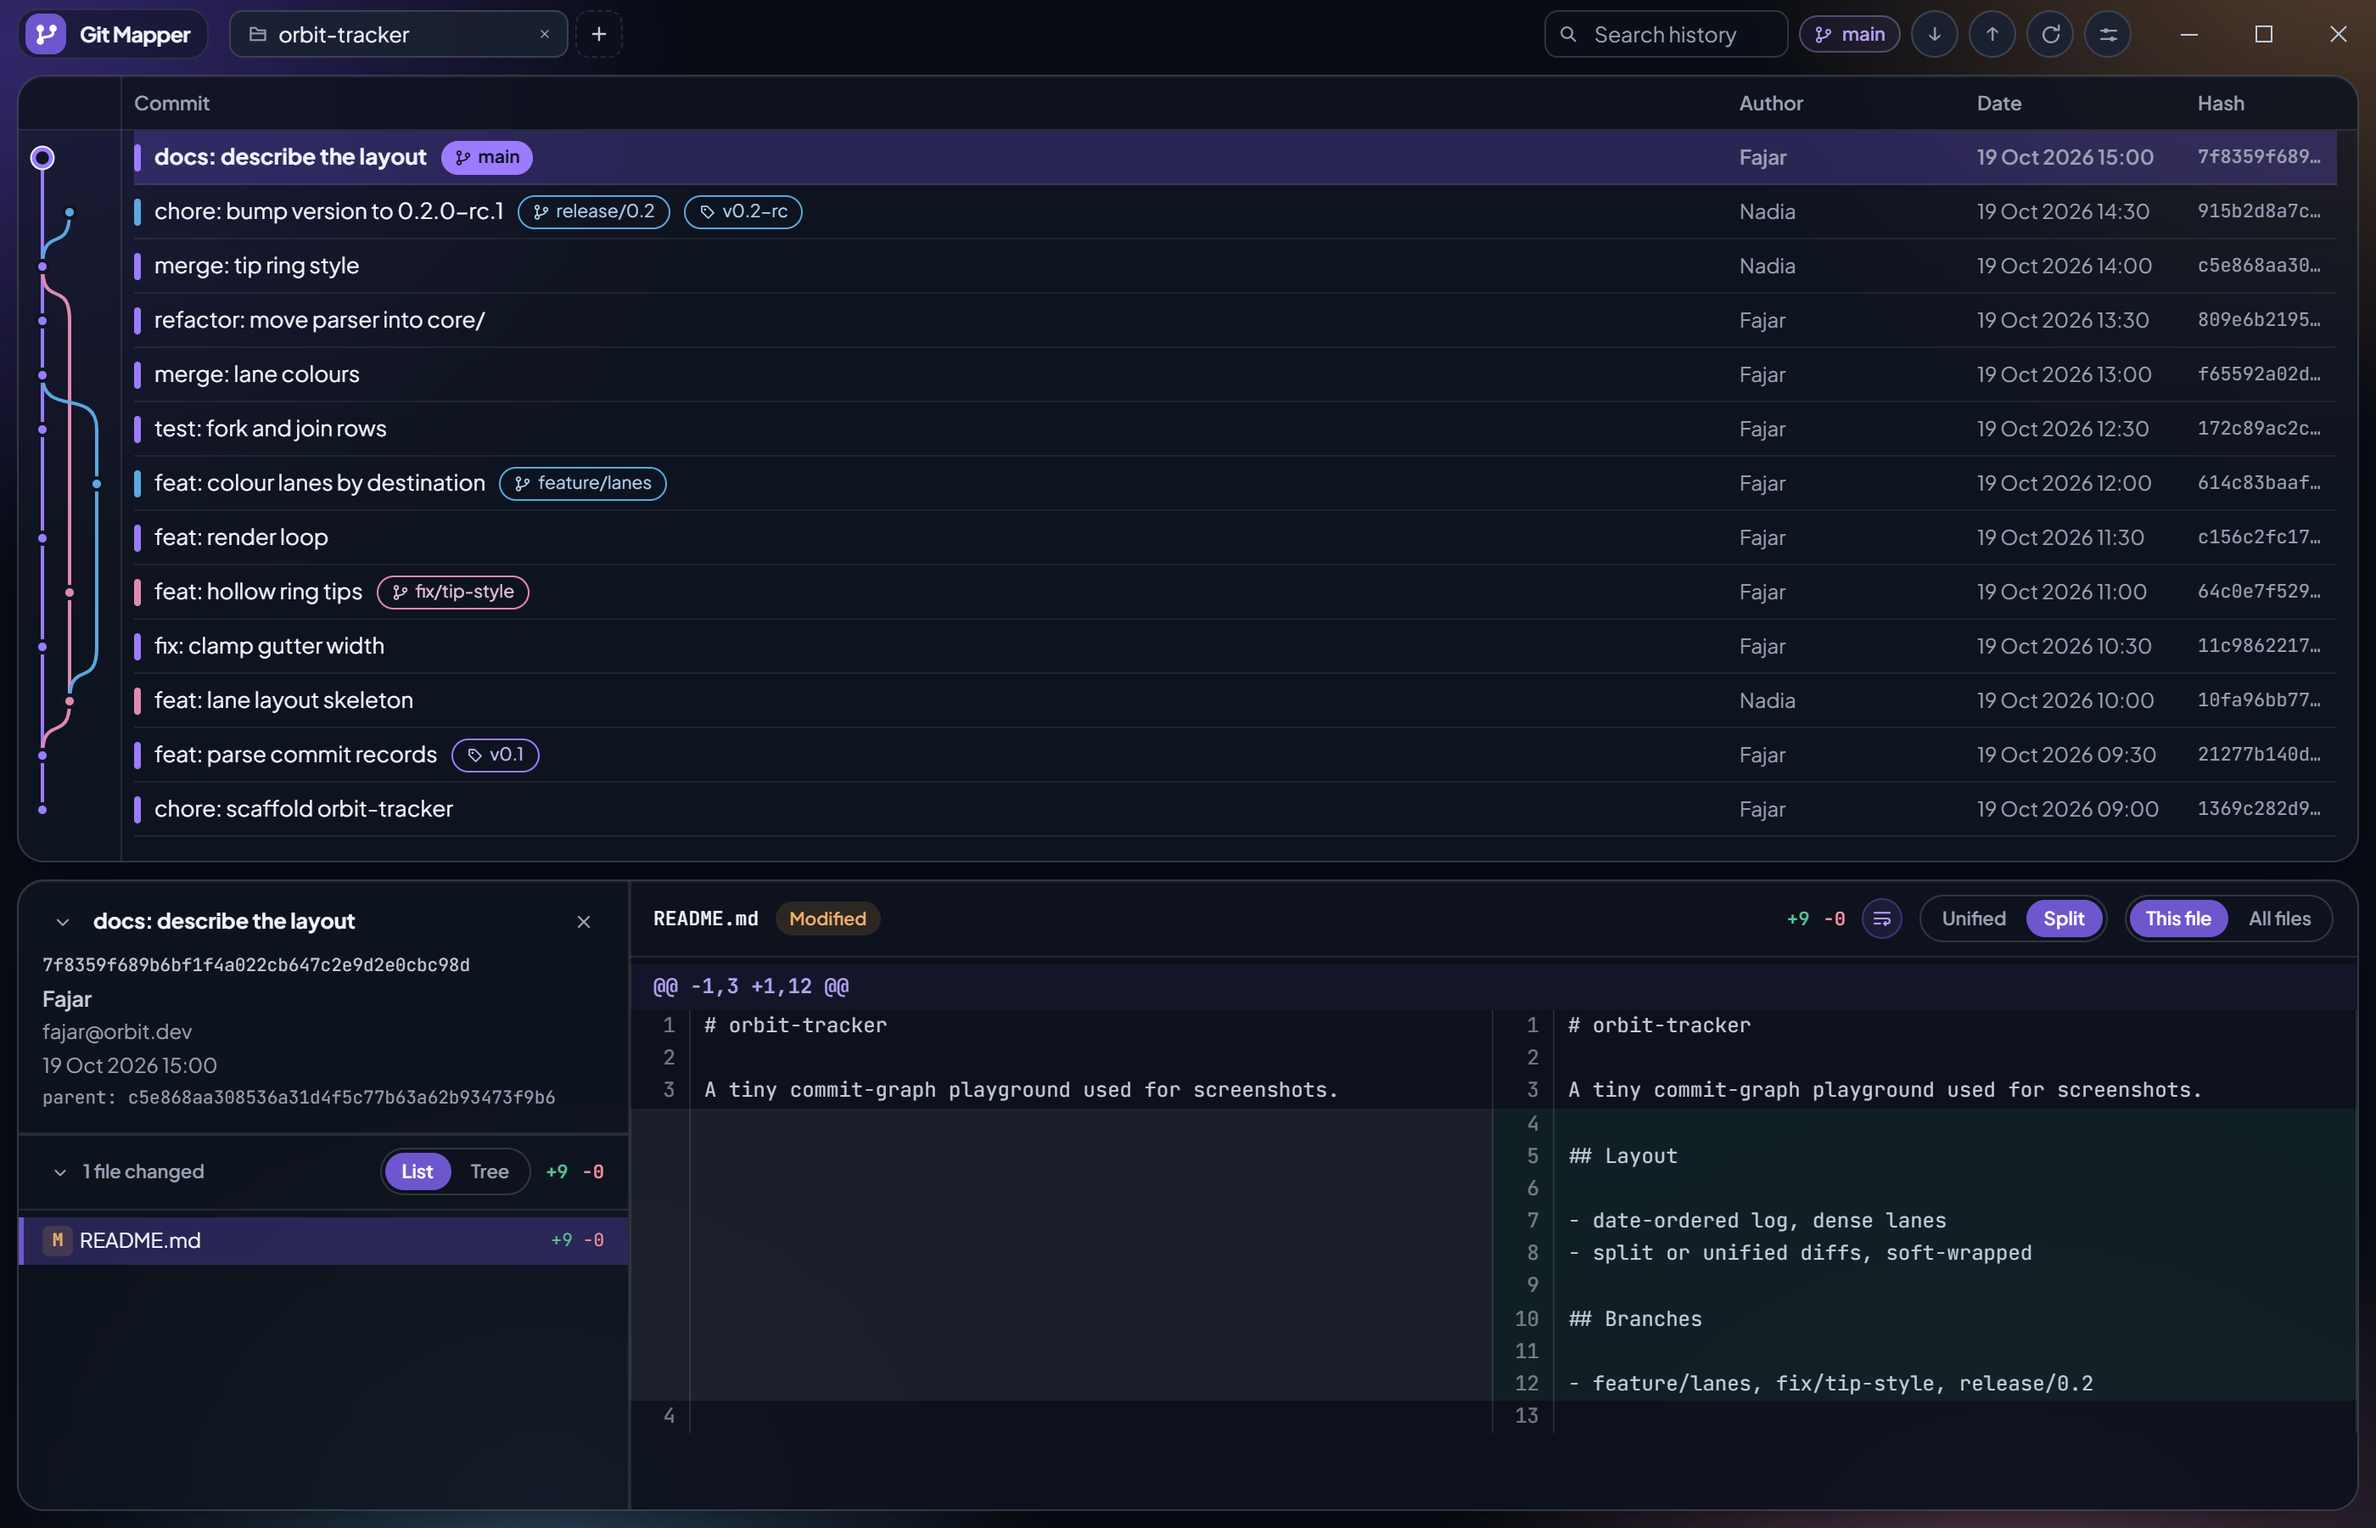
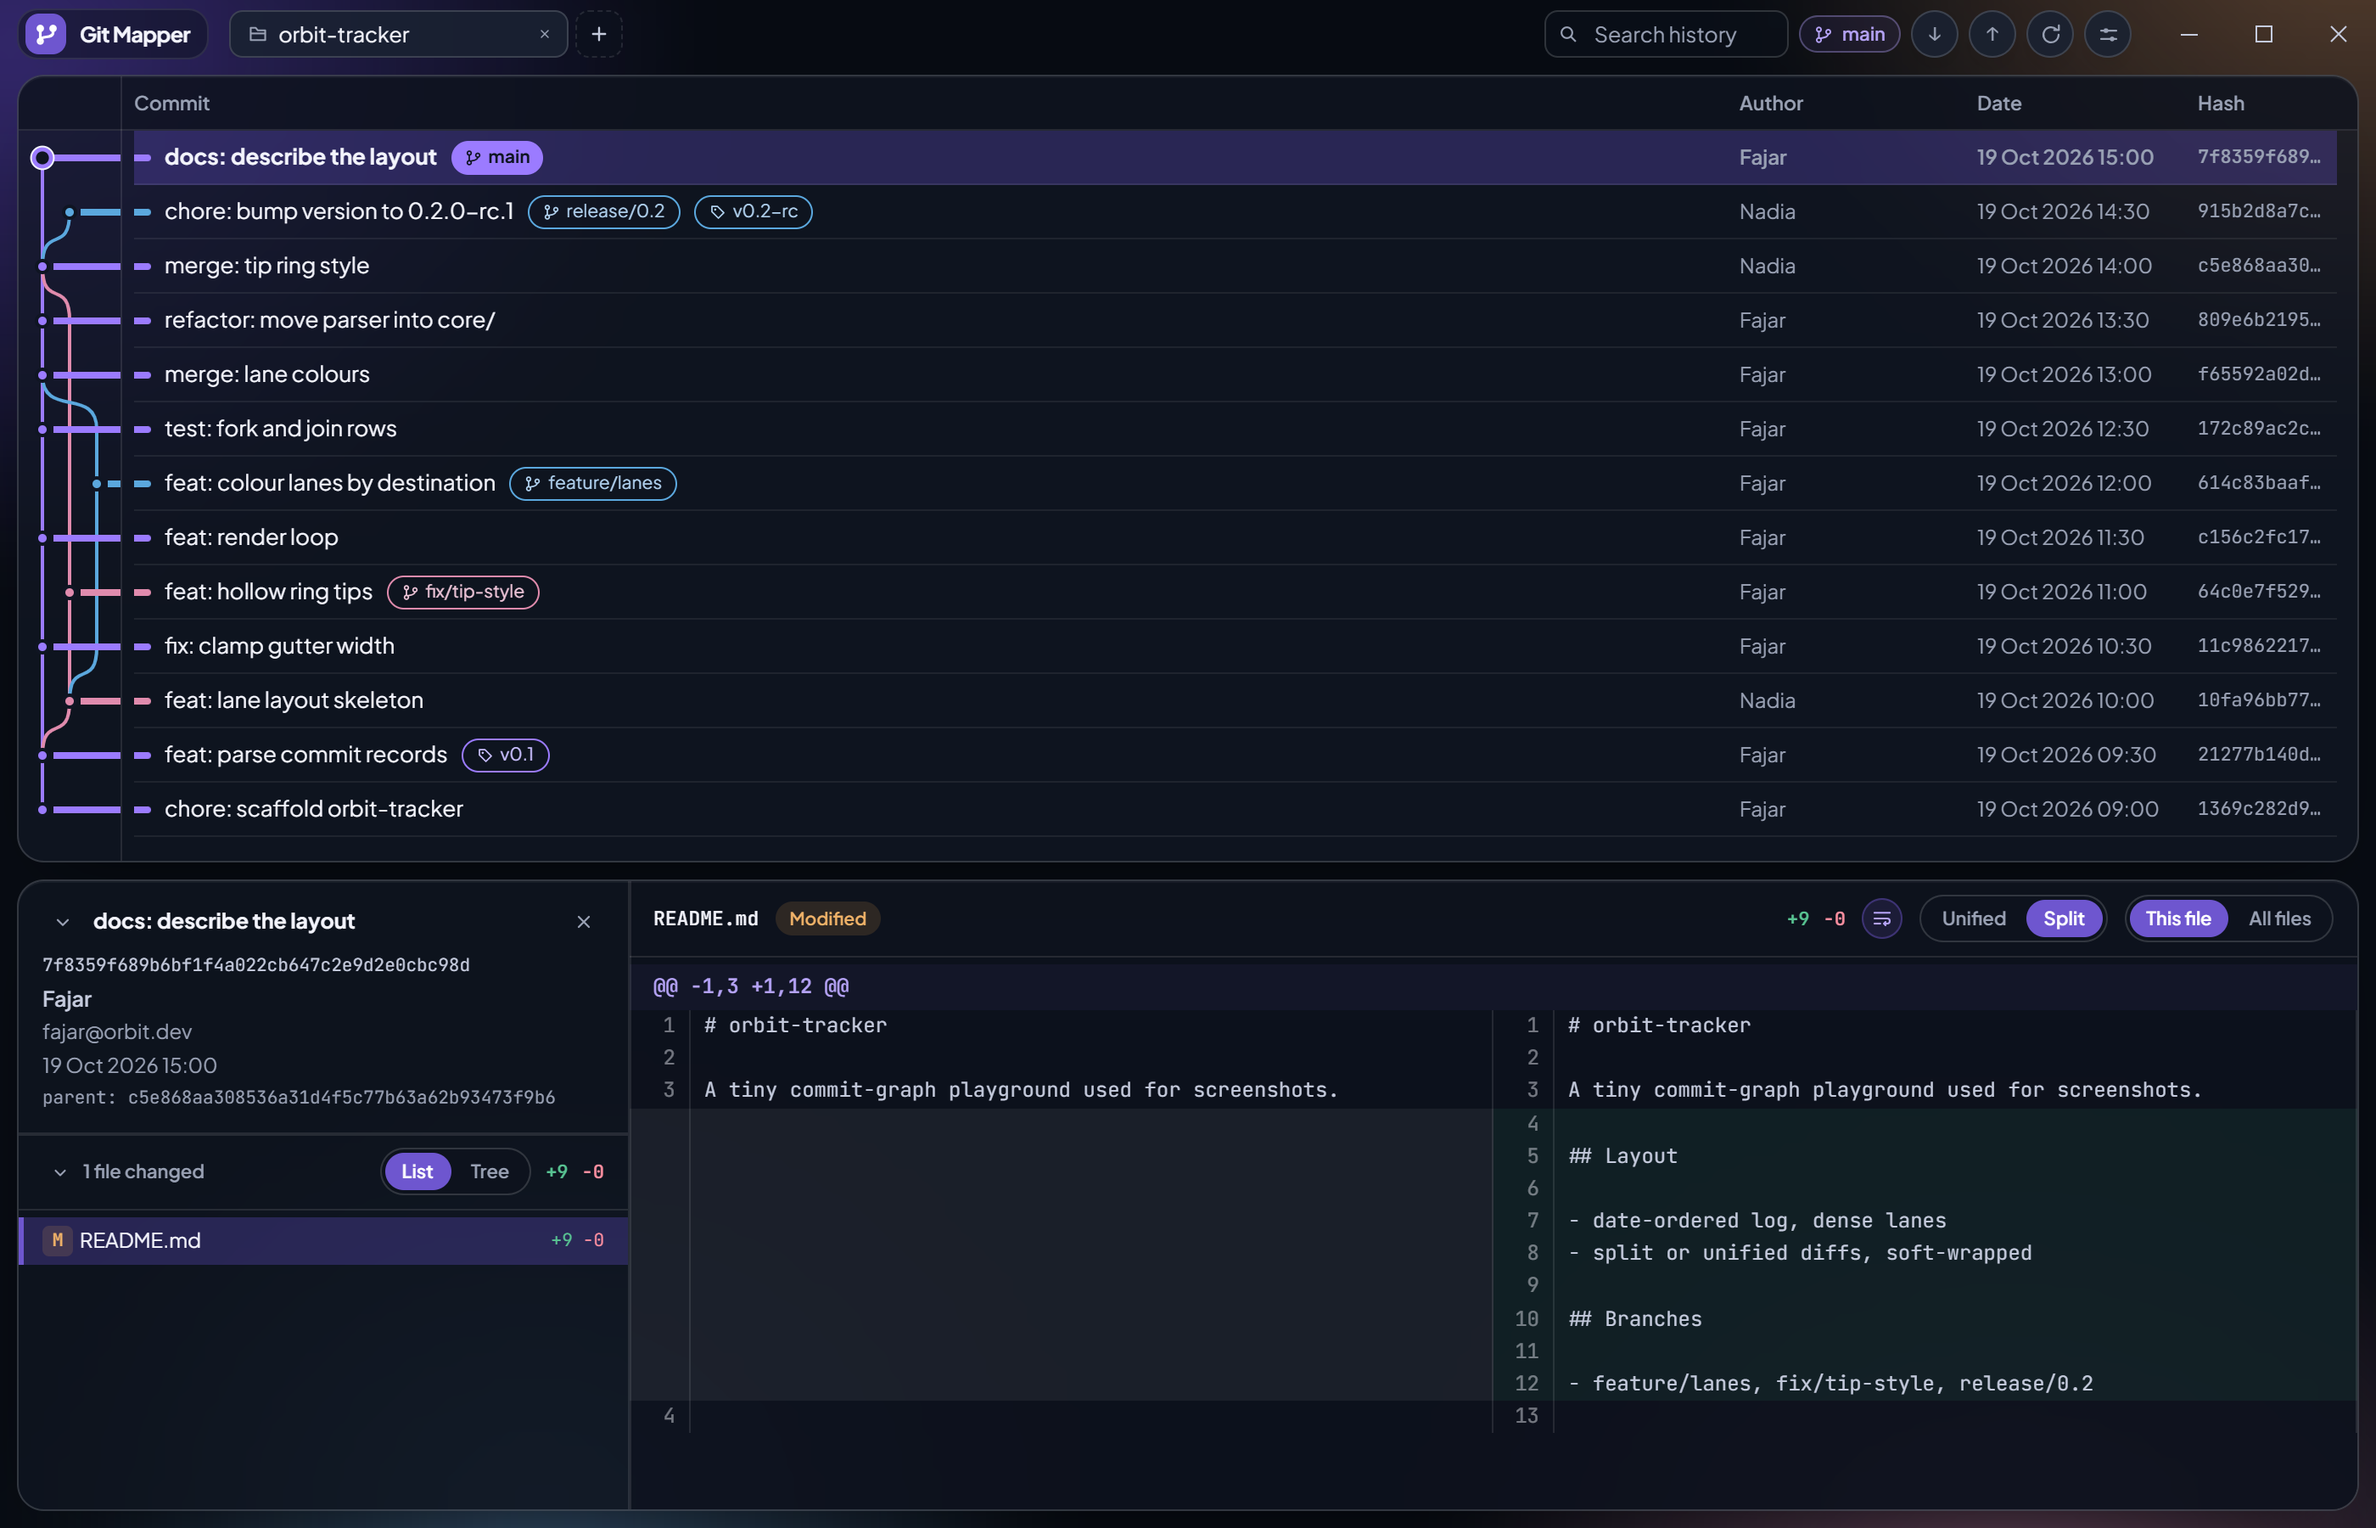
feat: the graph connects each node to its title in the lane colour
a lane-coloured bar runs from the dot to the message column and the row's chip carries it to the first character, GitKraken-style; the old vertical chip is gone. Screenshots retaken. Verified: npm run build, 104 tests, lint:check; connector geometry probed in the live page.

Changed region(s): [[0.0311, 0.0933, 0.3418, 0.56]]

diff --git a/src/components/CommitRow.tsx b/src/components/CommitRow.tsx
@@ -50,10 +50,10 @@ export const CommitRow = memo(function CommitRow({
       }
     >
       <span className="flex min-w-0 items-center gap-2 overflow-hidden">
-        {/* Branch-coloured segment: GitKraken's connector, tying this message to its graph node. */}
+        {/* Branch-coloured segment: continues the graph's connector bar to the first character. */}
         <span
           aria-hidden="true"
-          className="h-4 w-1 shrink-0 rounded-[2px]"
+          className="h-1 w-2.5 shrink-0 rounded-r-full"
           style={{ backgroundColor: branchColor(commit.branchColor) }}
         />
         <span className={`truncate text-[13px] text-ink ${weight}`}>

diff --git a/src/components/CommitGraph.tsx b/src/components/CommitGraph.tsx
@@ -54,6 +54,15 @@ export function CommitGraph({ commits, layout, selectedHash }: CommitGraphProps)
 
         return (
           <g key={commit.hash}>
+            {/* GitKraken's connector: the lane colour runs from the node to the message column,
+                where the row's own chip picks it up and carries it to the title. */}
+            <rect
+              x={x + DOT_RADIUS + 3}
+              y={y - 2}
+              width={Math.max(0, width - x - DOT_RADIUS - 3)}
+              height={4}
+              fill={color}
+            />
             {selected && (
               <circle
                 cx={x}
